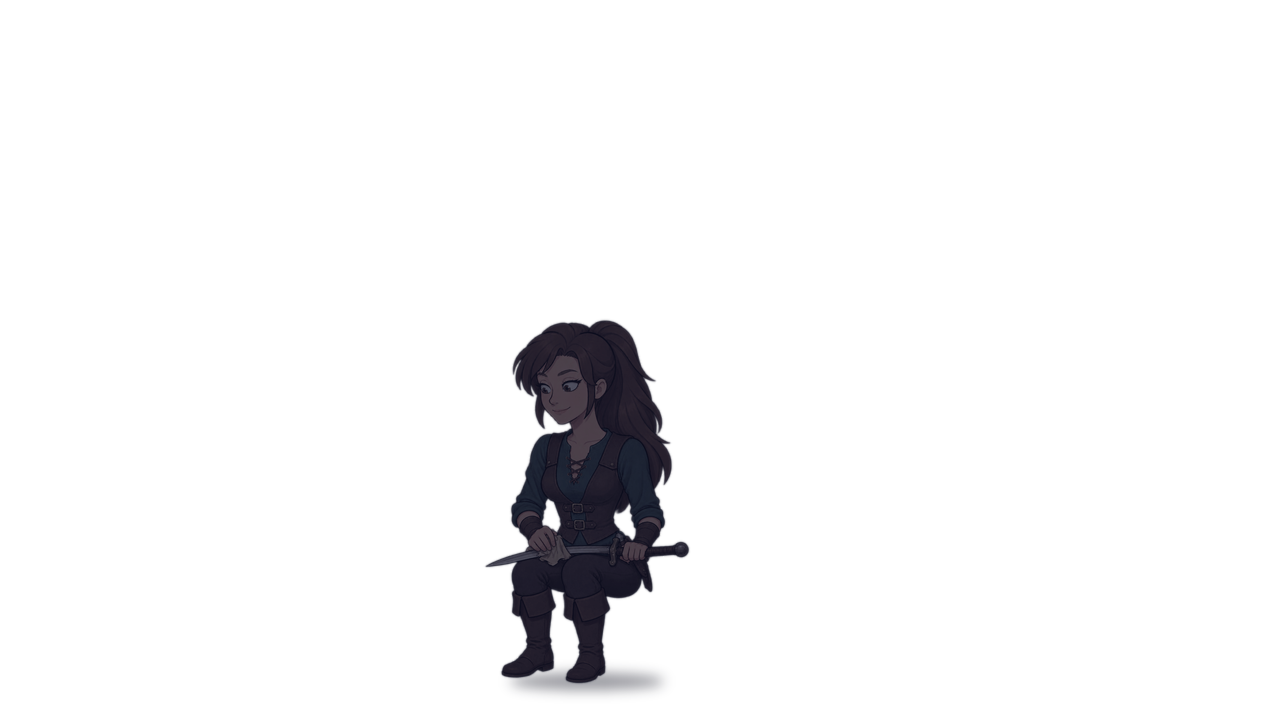
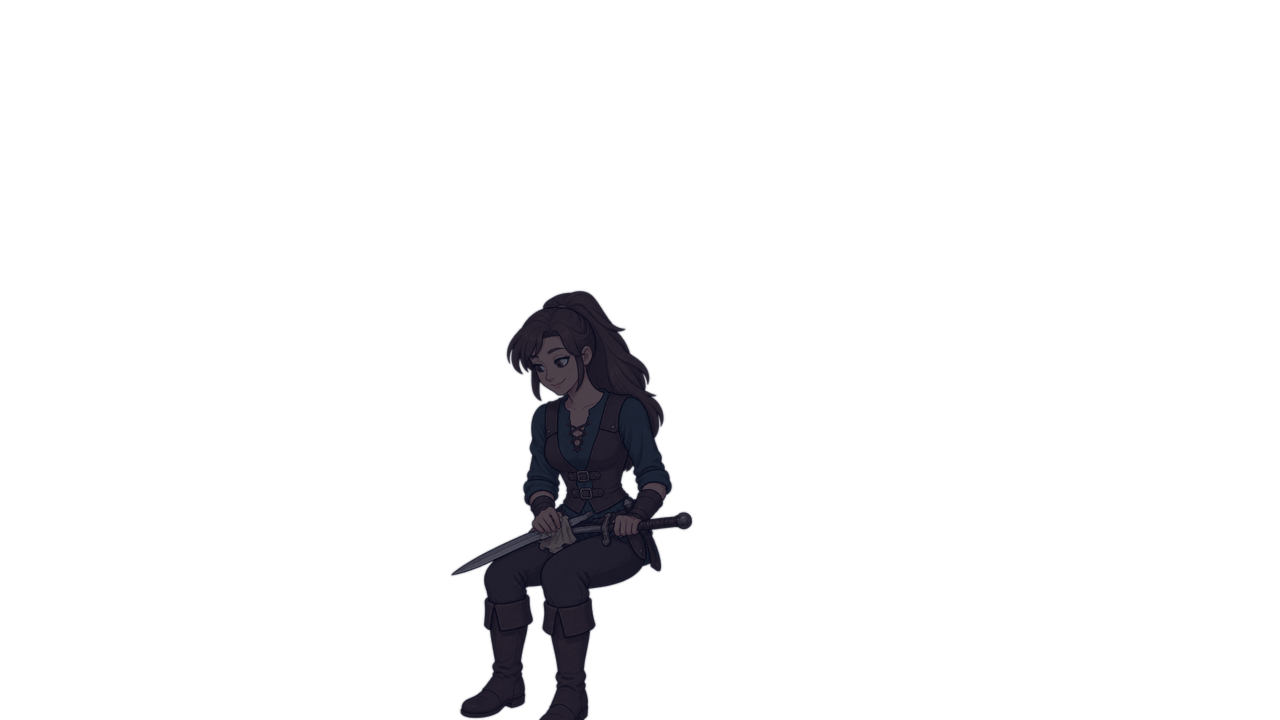
Fix the oversized head on sitting guild-hall Ruby and make the face transplant work at any head size
- sitting Ruby redrawn from the earlier well-proportioned pose with only face, hair and outfit taken from her dialogue picture
- art pipeline: locate finds the dialogue face at any scale and position (FFT template match) before fine alignment,
  so the look face can be pasted onto smaller full-body heads
- face transplant uses an oval area that stops at the jawline, removing skin-coloured smears on the collar
- docs: rule for poses framed differently from the dialogue picture, failure log entries, image ids

Claude-Session: https://claude.ai/code/session_01WFgBYsqnPjwxzhWx9BLhU6

Changed region(s): [[0.3438, 0.3972, 0.5625, 1.0]]

diff --git a/mosshill/tools/art_pipeline.py b/mosshill/tools/art_pipeline.py
@@ -291,7 +291,9 @@ def do_object(raw):
 ## RAW/pose_<장소>_<인물>_look.png   2) 에서 눈·입만 바꿔 앞(카메라)을 보는 모습 (look_from 이 "profile" 이면 안 씀)
 ## 얼굴이 대화 그림과 달라지지 않게 (look_from: "profile"):
 ##   2) 는 '대화 그림'을 고칠 대상(1번)으로 넣고 팔·손·소품만 바꾼다 (1) 장면은 자세 견본으로만) → 머리 위치·크기가 그대로.
-##   앞을 보는 얼굴은 AI 로 그리지 않고 대화 그림(RAW/<인물>.png)의 얼굴 영역(CHARS face_box)을 맞춰 옮겨 붙인다.
+##   앞을 보는 얼굴은 AI 로 그리지 않고 대화 그림(RAW/<인물>.png)의 얼굴 영역(CHARS face_box)을 맞춰 옮겨 붙인다
+##   (얼굴 모양 타원, 턱선까지. 머리 크기가 대화 그림과 달라도 locate 가 넓게 찾아 맞춘다).
+##   대화 그림과 구도가 다른 자세(앉은 전신)는 비율이 맞는 그림을 고칠 대상으로 하고 얼굴·머리카락만 대화 그림을 따르게 한다.
 ##   2) 의 투명 배경에 안개가 남으면 tools/cutout.py 로 먼저 정리한다.
 ## tools/art_scenes.json 의 place:
 ##   ref       1) 에서 인물이 있는 곳 다각형 (화면 1280x720 좌표) — 이 안에서 배경과 다른 곳 = 인물 실루엣
@@ -382,7 +384,33 @@ def fit_to(sil, char, cut, upper=0.6):
     return best
 
 
-def look_from_busy(busy, look, box=None):
+def locate(body, ex, box, scales=np.arange(0.40, 1.16, 0.025), k=4):
+    """ex 의 box 영역(얼굴)이 body 의 어디에 몇 배 크기로 있는지 넓은 범위에서 찾는다 (1/k 크기, FFT 상관).
+    앉은 전신처럼 머리가 대화 그림보다 작게 그려진 그림에 대화 그림 얼굴을 옮길 때 쓴다.
+    반환: (배율 s, 이동 dx, dy — place(ex, s, dx, dy) 로 맞춤, body 안의 얼굴 상자)"""
+    a = np.asarray(gray_on_white(body).resize((body.width // k, body.height // k)), np.float64)
+    patch = gray_on_white(ex).crop(box)
+    H, W = a.shape
+    ii = np.pad((a * a).cumsum(0).cumsum(1), ((1, 0), (1, 0)))      # 창 안 제곱합 (적분 영상)
+    best = None
+    for sc in scales:
+        tw, th = max(4, round(patch.width * sc / k)), max(4, round(patch.height * sc / k))
+        if tw >= W or th >= H:
+            continue
+        t = np.asarray(patch.resize((tw, th), Image.LANCZOS), np.float64)
+        shape = (H + th - 1, W + tw - 1)
+        full = np.fft.irfft2(np.fft.rfft2(a, shape) * np.fft.rfft2(t[::-1, ::-1], shape), shape)
+        corr = full[th - 1:H, tw - 1:W]
+        win = ii[th:, tw:] - ii[:-th, tw:] - ii[th:, :-tw] + ii[:-th, :-tw]
+        ssd = (win - 2 * corr + (t * t).sum()) / t.size
+        y, x = np.unravel_index(np.argmin(ssd), ssd.shape)
+        if best is None or ssd[y, x] < best[0]:
+            best = (ssd[y, x], sc, x * k, y * k, tw * k, th * k)
+    _, sc, x, y, w, h = best
+    return sc, round(x - box[0] * sc), round(y - box[1] * sc), (x, y, x + w, y + h)
+
+
+def look_from_busy(busy, look, box=None, oval=False):
     """look 그림에서 머리 쪽의 달라진 곳만 busy 에 합친다 → 바뀔 때 몸이 흔들리지 않는다.
     box 가 없으면 테두리 상자 위 45%, 있으면 그 상자(얼굴 영역) 안만."""
     x0, y0, x1, y1 = busy.getchannel("A").point(lambda v: 255 if v > 16 else 0).getbbox()
@@ -390,7 +418,10 @@ def look_from_busy(busy, look, box=None):
     d, s, dx, dy = register(busy, look, (head[0], head[1], head[2], head[3] + (0 if box else 60)))
     look = place(look, s, dx, dy)
     area = Image.new("L", busy.size, 0)
-    ImageDraw.Draw(area).rectangle(head, fill=255)
+    if oval:        # 얼굴 모양 타원 — 상자 모서리(목·옷깃·어깨)는 옮기지 않는다 (자세가 달라 얼룩이 됨)
+        ImageDraw.Draw(area).ellipse(head, fill=255)
+    else:
+        ImageDraw.Draw(area).rectangle(head, fill=255)
     area = area.filter(ImageFilter.GaussianBlur(10))
     diff = ImageChops.difference(gray_on_white(busy), gray_on_white(look)).filter(ImageFilter.GaussianBlur(2))
     mask = ImageChops.multiply(diff.point(lambda v: 255 if v > 14 else 0).filter(ImageFilter.MaxFilter(15)), area)
@@ -464,9 +495,15 @@ def do_scene(raw):
             if s.get("look_from") == "profile":
                 ## 대화 그림(원본 몸)의 얼굴을 그대로 옮긴다 → 장소 안에서 마주 보는 얼굴이 대화 그림과 똑같다.
                 ## busy 는 대화 그림을 고쳐 팔·소품만 바꾼 그림이라 머리 위치·크기가 같다
+                ## 머리 크기·위치가 대화 그림과 다르면(앉은 전신 등) 먼저 얼굴을 넓게 찾아 대략 맞춘 뒤 다듬는다
                 fb = CHARS[who]["face_box"]
                 prof = Image.open(os.path.join(raw, who + ".png")).convert("RGBA")
-                pose["look"] = look_from_busy(pose["busy"], prof, (fb[0] - 30, fb[1] - 30, fb[2] + 30, fb[3] + 30))
+                sc, dx, dy, (fx0, fy0, fx1, fy1) = locate(pose["busy"], prof, fb)
+                prof = place(prof, sc, dx, dy)
+                m = round(30 * sc)
+                ## 아래쪽은 턱선까지만 (목은 자세마다 각도가 달라 옮기면 옷 위에 살색 얼룩이 생긴다)
+                pose["look"] = look_from_busy(pose["busy"], prof, (fx0 - m, fy0 - m, fx1 + m, fy1 - 2 * m), oval=True)
+                print("      대화 그림 얼굴: 배율 %.2f, 위치 %s" % (sc, (fx0, fy0, fx1, fy1)))
             else:
                 look = Image.open(os.path.join(raw, "pose_%s_%s_look.png" % (loc, who))).convert("RGBA")
                 pose["look"] = look_from_busy(pose["busy"], look)

diff --git a/mosshill/tools/art_recipes.md b/mosshill/tools/art_recipes.md
@@ -41,7 +41,7 @@
 | 표정 | 그 인물 몸 | (2) 루비 = 화풍 — 얼굴 크기·위치는 1번 그대로 |
 | 배경 | 길드 홀 | (2) 루비 = 화풍 |
 | 장소 안 인물 1) 장면 | 그 장소 배경 | (2) 그 인물 몸 = 얼굴·옷 (3) 카이 = 그림체 — 배경에 인물을 함께 그림 (자세·위치 기준). 프롬프트에 **가구 높이와 키를 cm 로** 쓴다. 그래도 AI 는 인물을 1.4~2배 크게 그리므로 `art_scenes.json` 의 `check` 로 재고 `scale` 로 줄인다 |
-| 장소 안 인물 2) '하던 일' | **그 인물의 대화 그림** (얼굴·머리카락·비율을 지키는 대상) | (2) 1) 장면 또는 예전 그림 = 자세·동작만 ('얼굴·눈·머리카락·비율은 따라 하지 말 것'). 머리는 그대로 두고 팔·손·소품만 바꾸고, 시선만 하던 일 쪽으로. 앉은 자세도 '머리 크기·위치는 그대로, 몸은 그 아래에' |
+| 장소 안 인물 2) '하던 일' | **그 인물의 대화 그림** (얼굴·머리카락·비율을 지키는 대상) | (2) 1) 장면 또는 예전 그림 = 자세·동작만 ('얼굴·눈·머리카락·비율은 따라 하지 말 것'). 머리는 그대로 두고 팔·손·소품만 바꾸고, 시선만 하던 일 쪽으로. 앉은 자세도 '머리 크기·위치는 그대로, 몸은 그 아래에'. **단, 대화 그림과 구도가 다른 자세(앉은 전신 등)는** 비율이 맞는 그림(예전 장면 그림)을 고칠 대상으로 두고 얼굴·머리카락·옷만 대화 그림을 따르게 한다 |
 | 장소 안 인물 '앞을 봄' | 그리지 않는다 | 대화 그림의 얼굴(CHARS face_box)을 가공 단계가 그대로 옮겨 붙인다 (`look_from: profile`) |
 | 적·아이템 | 루비 | (2) 배경 1장 = 색감 |
 
@@ -92,6 +92,8 @@
 | 가구 위 도마가 식탁 앞 모서리에 얇은 선처럼 보이고 칼이 식탁에 박힌 것 같음 | 단독 그림(2)은 눈높이에서 그려서 도마가 옆모습. 배경은 위에서 내려다본 원근 | `show_from_scene`: 가구 윗면 아래(show 안)는 1) 장면의 손·도구 픽셀을 쓴다 — 배경과 같은 원근 |
 | '앞을 봄' 그림 투명 배경에 옅은 얼룩 → 머리 옆 검은 자국 | 정밀 모드 결과의 투명 배경이 완전히 투명하지 않음 | 가공에서 몸 그림이 불투명한 곳 안에서만 합친다 (`look_from_busy`) |
 | 장소 안 인물의 눈매·눈 크기·머리카락 표현이 대화 그림과 다름 (잡화점 핍은 아이처럼 됨) | 2) 를 1) 장면(배경 속 작게 뭉개진 얼굴)을 보고 새로 그림 → 복사본의 복사본. 핍은 견본으로 대화 그림 대신 예전 장면 그림을 넣음 | 2) 는 **대화 그림을 고칠 대상(1번)으로** 넣고 팔·손·소품만 바꾼다. 앞을 보는 얼굴은 대화 그림에서 옮겨 붙인다 (`look_from: profile`) |
+| 앉은 홀 루비가 머리 큰 인형처럼 됨 (몸이 작고 짧음) | 대화 그림은 허벅지까지인데 '머리 크기·위치 그대로' 앉은 전신을 넣으라고 해서 AI 가 몸만 줄임 | 구도가 다른 자세는 비율이 맞는 그림을 고칠 대상으로, 대화 그림은 얼굴·머리카락 견본으로. 얼굴 옮기기는 머리 크기가 달라도 되게 넓게 찾는다(`locate`) |
+| 얼굴을 옮겨 붙인 '앞을 봄'에서 목·옷깃에 살색 얼룩 | 사각형 영역이라 대화 그림의 목·옷깃까지 옮겨짐 (자세가 달라 어긋남) | 얼굴 모양 타원, 아래는 턱선까지만 |
 | '투명 배경'으로 그렸는데 인물 주변에 반투명 안개(회색·검은 얼룩), 일부는 불투명 | 이미지 서버의 투명 배경 출력이 불안정 | `tools/cutout.py` (애니메이션용 배경 제거 모델 isnet-anime) 로 인물 모양 밖 안개만 지운다. 원래 경계의 부드러운 투명도는 유지 |
 | 영역 지정(마스크) 편집 실패 | 이미지 서버가 마스크를 거부 ("Invalid image data") | 마스크 없이 "~만 바꿔"로 그리고 `art_pipeline.py` 가 바뀐 곳만 오린다 |
 
@@ -107,7 +109,7 @@
 | 장소 인물 2) 하던 일 / 앞을 봄 — 부엌 루비 (예전 넓은 배경판, 도마·당근 포함) | `img_mwk7pc09G7ElWjcv` / `img_mwk7q63yNWNOkHvU` |
 | 부엌 배경 (예전 넓은 판, 식탁 위 채소 치운 것) | `img_mwk7p1h5vMRQxjDf` — 새 부엌 배경의 1번 견본으로 씀 |
 | 길드 홀 루비 | `img_mwk6o5dzKhYphXZU` / `img_mwk6yuuuSZxYZcY3` |
-| 장소 안 인물 2) 하던 일 — 대화 그림을 고친 판 (지금 쓰는 것): 선술집 마르타 / 부엌 루비 / 홀 루비 / 잡화점 핍 / 광장 핍 | `img_mwlrlsaqYfMcFXEL` / `img_mwlrm2l4cwVHQJMt` / `img_mwlrmeckxxxaUxFy` / `img_mwlrix6yHwRgeGRn` / `img_mwlrmnsx7VHiRsXv` (모두 cutout 처리, 앞을 봄 = 대화 그림 얼굴) |
+| 장소 안 인물 2) 하던 일 — 대화 그림을 고친 판 (지금 쓰는 것): 선술집 마르타 / 부엌 루비 / 홀 루비 / 잡화점 핍 / 광장 핍 | `img_mwlrlsaqYfMcFXEL` / `img_mwlrm2l4cwVHQJMt` / `img_mwls9z8eVbANVgSF` (예전 홀 그림을 고쳐 얼굴만 대화 그림으로 — 대화 그림을 고친 `img_mwlrmeckxxxaUxFy` 는 머리가 커서 버림) / `img_mwlrix6yHwRgeGRn` / `img_mwlrmnsx7VHiRsXv` (모두 cutout 처리, 앞을 봄 = 대화 그림 얼굴) |
 | 선술집 마르타 (가까운 배경판) — 1) 장면 / 2) 하던 일 / 앞을 봄 | `img_mwkevd8k42sjW1jn` / `img_mwkewnqqXXwNxBNb` / `img_mwkeyo6bqUR647Bs` (scale 0.66) |
 | 잡화점 핍 (가까운 배경판, 금화를 눈앞에 들고 살핌) — 1) 장면 / 2) 하던 일 / 앞을 봄 | `img_mwkf5ohi9lqOiGCF` / `img_mwkf7ariy6pdxx7U` / `img_mwkf8fifRo3DwyRV` (scale 0.74) |
 | 선술집 마르타 (예전 넓은 배경판) | `img_mwk6oedcaIUMwko8` / `img_mwk6z55aHqkz4brz` |
